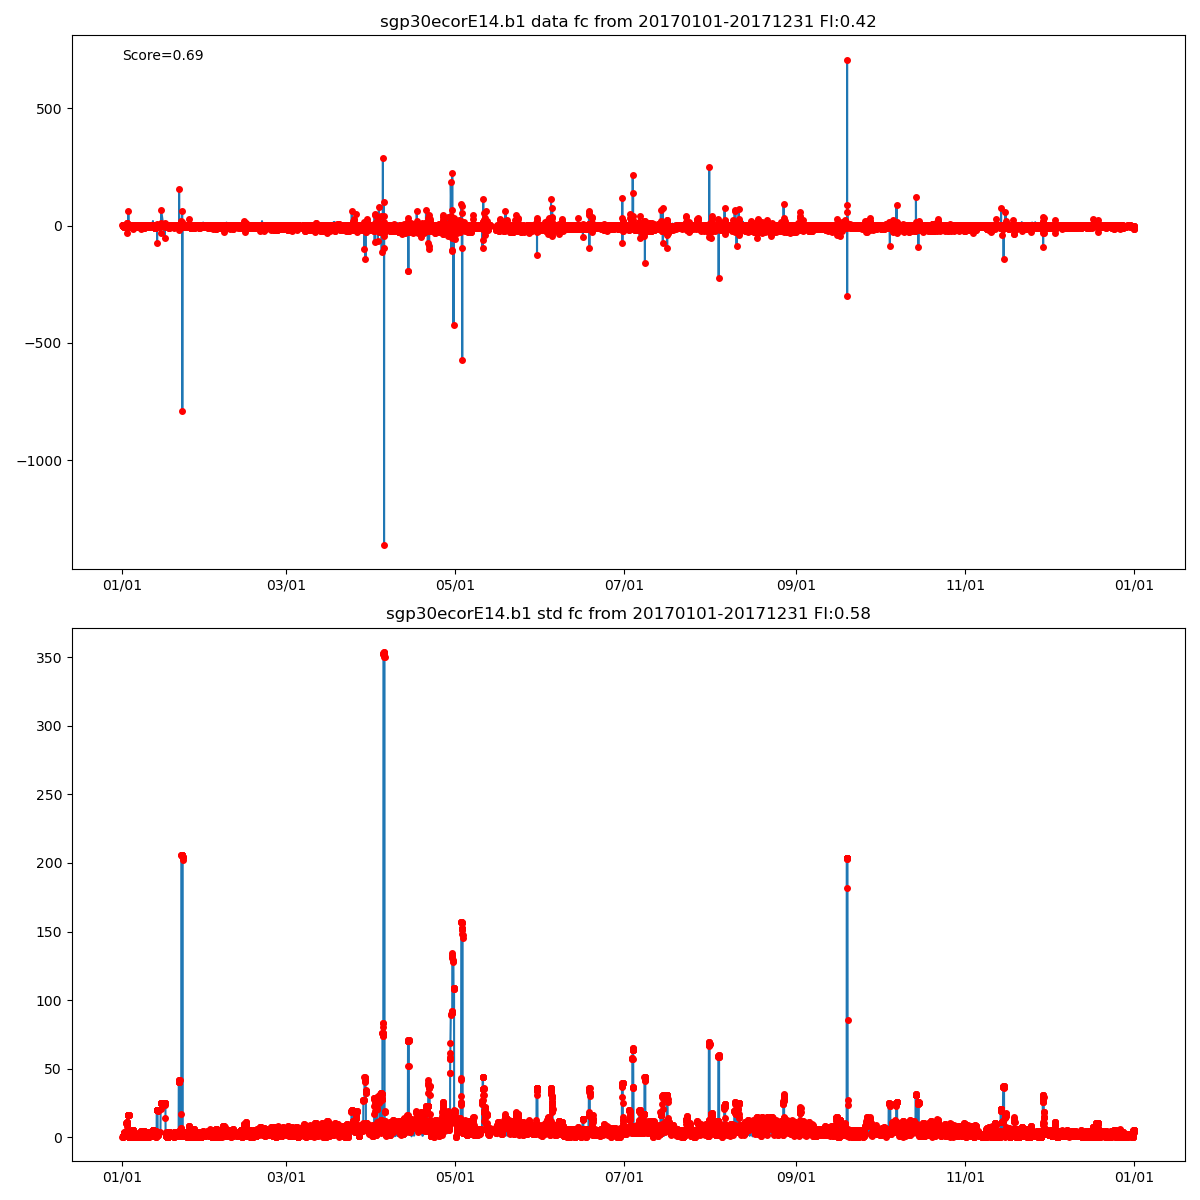
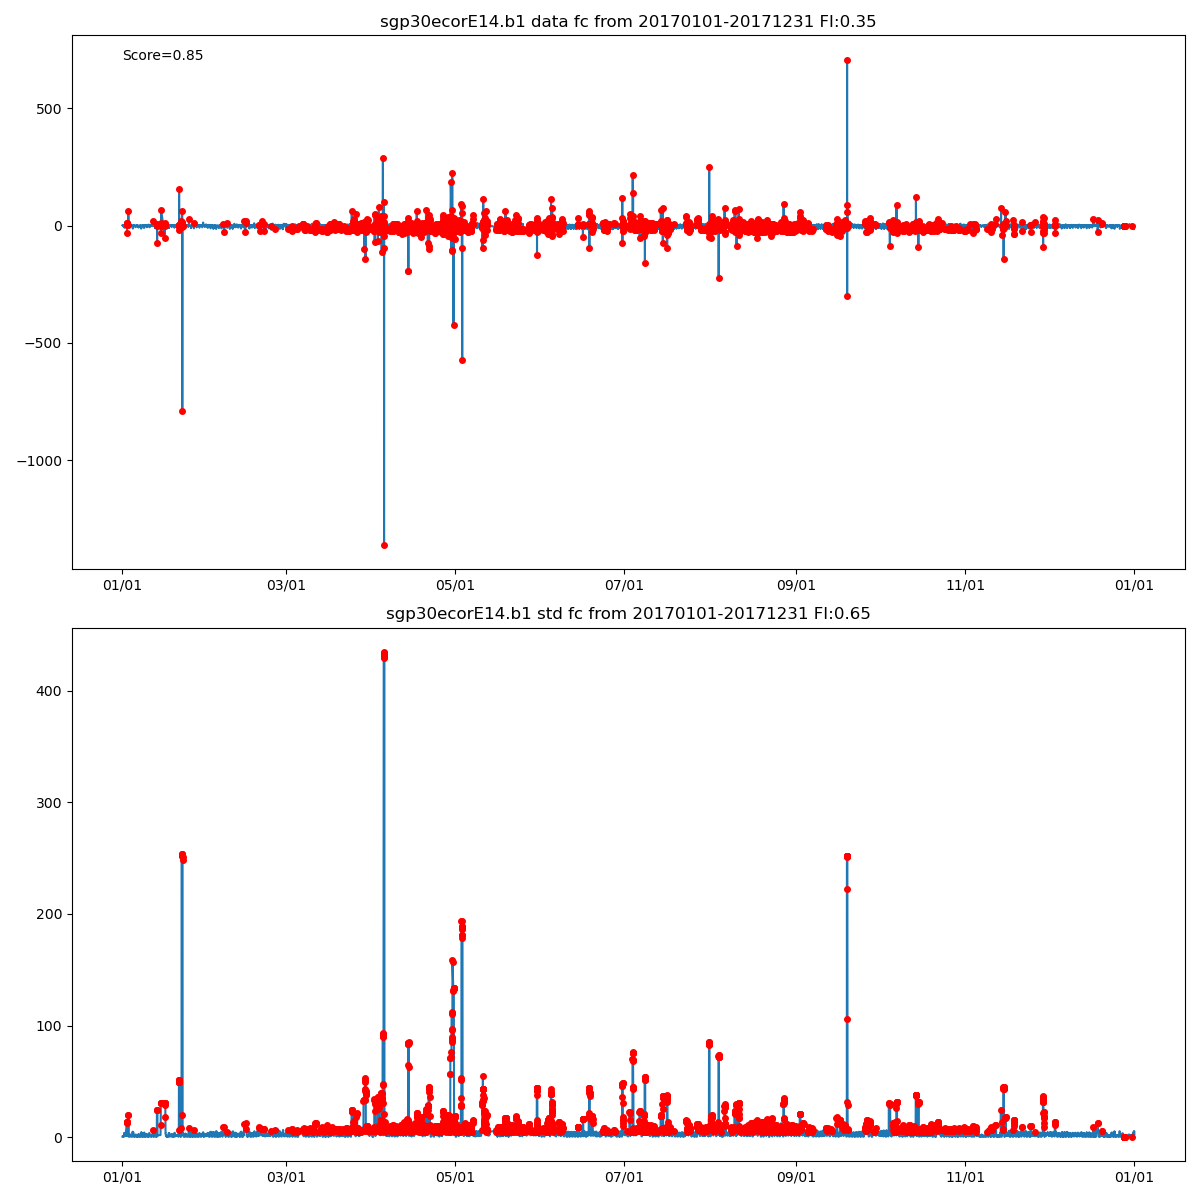
asdginasdg

diff --git a/dqr_training/dqr_ml.py b/dqr_training/dqr_ml.py
@@ -27,7 +27,7 @@ varname = 'fc'
 vis_sdate='20170101'
 vis_edate='20171231'
 min_max=0
-n_est=15
+n_est=25
 depth=3
 ndays=10
 max_bad=2
